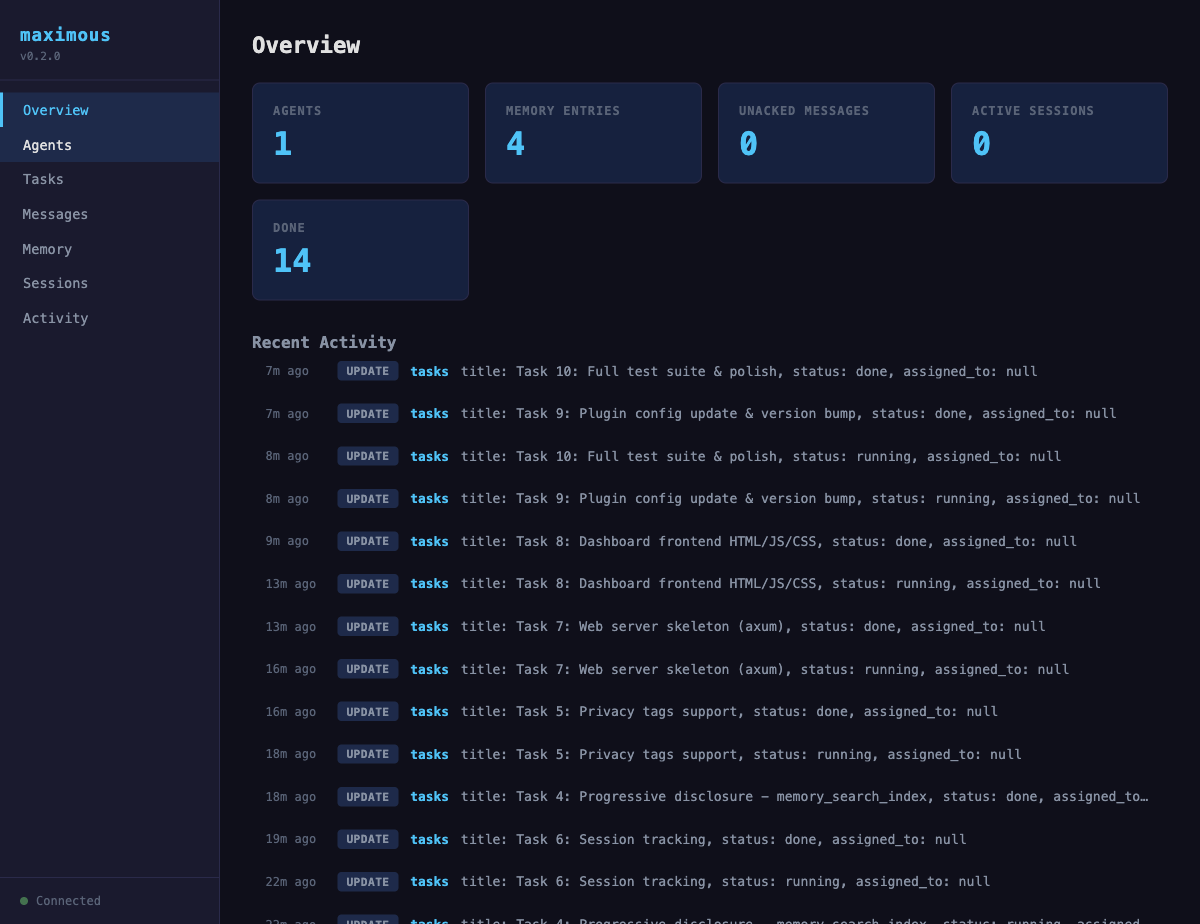
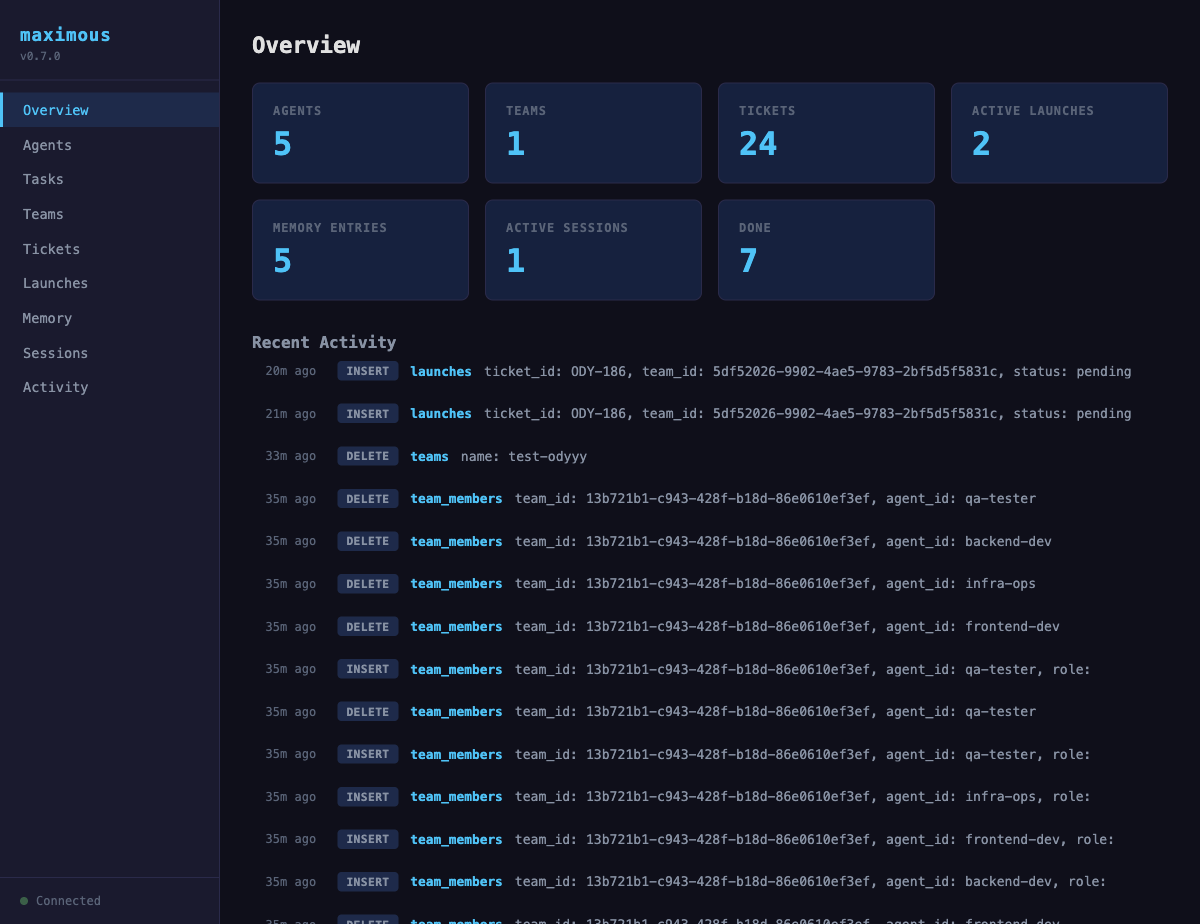
docs: update README for v0.7.0 with new dashboard screenshots
- Add screenshots for Teams, Tickets, and Launches pages
- Update tool count from 18 to 30 (8 domains)
- Update table count from 7 to 11
- Update test count from 61 to 155
- Add Teams, Tickets, Launches, and Definitions to architecture docs
- Update skills table and version references

diff --git a/README.md b/README.md
@@ -5,9 +5,9 @@ A SQLite brain for Claude Code — session continuity, subagent knowledge persis
 Maximous enhances Claude Code with persistent context that survives across sessions, preserves subagent findings before they're compressed, and coordinates parallel agents through a shared SQLite database via MCP.
 
 <p align="center">
-  <img src="assets/dashboard-overview.png" alt="Maximous Web Dashboard" width="800">
+  <img src="assets/dashboard-overview.png" alt="Maximous Web Dashboard — Overview" width="800">
   <br>
-  <em>Real-time web dashboard showing agent activity, tasks, and memory</em>
+  <em>Real-time web dashboard with agent registry, team management, ticket tracking, and launch orchestration</em>
 </p>
 
 ## How It Works
@@ -28,13 +28,15 @@ Each agent spawns its own MCP server process. All processes share a single SQLit
 | Domain | Tools | Purpose |
 |---|---|---|
 | **Memory** | `memory_set`, `memory_get`, `memory_search`, `memory_search_index`, `memory_delete` | FTS5-powered shared knowledge store with typed observations, privacy tags, and progressive disclosure |
-| **Messages** | `message_send`, `message_read`, `message_ack` | Priority message queue with channels |
 | **Tasks** | `task_create`, `task_update`, `task_list` | Task board with dependencies and pagination |
-| **Agents** | `agent_register`, `agent_heartbeat`, `agent_list` | Agent registry with heartbeat |
+| **Agents** | `agent_register`, `agent_heartbeat`, `agent_list`, `agent_define`, `agent_remove`, `agent_catalog` | Agent registry with heartbeat and reusable definitions |
+| **Teams** | `team_create`, `team_list`, `team_delete`, `team_add_member`, `team_remove_member` | Compose agents into named teams for coordinated work |
+| **Tickets** | `ticket_cache`, `ticket_list`, `ticket_get`, `ticket_clear` | Cache and track external tickets (Linear, Jira) |
+| **Launches** | `launch_create`, `launch_update`, `launch_list`, `launch_delete` | Assign tickets to teams, track execution status and PRs |
 | **Sessions** | `session_start`, `session_end`, `session_list` | Track agent work sessions with summaries |
 | **Observe** | `poll_changes` | Watch for state changes across all tables |
 
-**18 tools** across 6 domains.
+**30 tools** across 8 domains.
 
 ## Key Features
 
@@ -61,14 +63,34 @@ Automatic hooks preserve context across Claude Code sessions:
 Reserved namespaces: `sessions`, `agent-findings`, `context-preservation`.
 
 ### Web Dashboard
-Built-in web dashboard at `http://127.0.0.1:8375` with 7 views:
+Built-in web dashboard at `http://127.0.0.1:8375` with 9 views:
 - **Overview** — stat cards + activity feed
 - **Agents** — registry with heartbeat status
 - **Tasks** — table with status/priority badges and dependencies
-- **Messages** — channel-based message browser
+- **Teams** — agent definitions, team composition with add/remove members
+- **Tickets** — cached Linear/Jira tickets with status, priority, labels, and launch buttons
+- **Launches** — ticket-to-team assignments with status tracking, branch names, and PR links
 - **Memory** — 3-pane namespace/key/value explorer
 - **Sessions** — session history with summaries
 - **Activity** — real-time change feed via SSE
+
+<p align="center">
+  <img src="assets/dashboard-teams.png" alt="Teams — agent definitions and team composition" width="800">
+  <br>
+  <em>Teams view: define agents, compose teams, add/remove members</em>
+</p>
+
+<p align="center">
+  <img src="assets/dashboard-tickets.png" alt="Tickets — Linear integration with launch controls" width="800">
+  <br>
+  <em>Tickets view: cached Linear tickets with priority badges, status, and one-click launch</em>
+</p>
+
+<p align="center">
+  <img src="assets/dashboard-launches.png" alt="Launches — ticket execution tracking" width="800">
+  <br>
+  <em>Launches view: track ticket execution across teams with status, branches, and PR links</em>
+</p>
 
 Start the dashboard:
 ```bash
@@ -150,22 +172,23 @@ If you just want the MCP server without the full plugin, add to your project's `
 
 ## Usage
 
-Claude Code auto-spawns the MCP server and makes all 18 tools available to agents. The SessionStart hook runs automatically every session to ensure the binary and `.maximous/` directory exist.
+Claude Code auto-spawns the MCP server and makes all 30 tools available to agents. The SessionStart hook runs automatically every session to ensure the binary and `.maximous/` directory exist.
 
 ### Skills
 
-The plugin includes 8 skills that teach agents how to use maximous. Skills trigger automatically based on what you say:
+The plugin includes skills that teach agents how to use maximous. Skills trigger automatically based on what you say:
 
 | Skill | Trigger examples | Purpose |
 |---|---|---|
 | **session-continuity** | "resume previous work", "pick up where I left off" | Cross-session context persistence |
 | **orchestrate** | "orchestrate agents", "set up multi-agent workflow" | Set up full multi-agent workflows |
 | **coordinate** | "manage tasks", "create task graph" | Task lifecycle and dependency management |
-| **communicate** | "send a message to agents", "use message channels" | Message channels and priority queues |
+| **teams** | "define agents", "create teams", "manage team members" | Agent definitions and team composition |
 | **memory** | "store this in memory", "share data between agents" | Shared key-value storage with TTL |
 | **observe** | "watch for changes", "poll for updates" | Watch for state changes via polling |
 | **status** | "maximous status", "show agent status" | Quick overview of current state |
 | **cleanup** | "clean up maximous", "expire old data" | Expire stale data and maintain the database |
+| **dashboard** | "open dashboard", "show dashboard" | Open the web dashboard in your browser |
 
 ### When Does Maximous Activate?
 
@@ -203,7 +226,7 @@ echo '{"jsonrpc":"2.0","id":1,"method":"initialize","params":{"protocolVersion":
 
 Should return:
 ```json
-{"jsonrpc":"2.0","id":1,"result":{"capabilities":{"tools":{}},"protocolVersion":"2024-11-05","serverInfo":{"name":"maximous","version":"0.5.0"}}}
+{"jsonrpc":"2.0","id":1,"result":{"capabilities":{"tools":{}},"protocolVersion":"2024-11-05","serverInfo":{"name":"maximous","version":"0.7.0"}}}
 ```
 
 ## Multi-Agent Example
@@ -255,33 +278,40 @@ maximous/
 │   ├── main.rs          # CLI entry: subcommands (default=MCP, dashboard=web)
 │   ├── lib.rs           # Library root
 │   ├── db.rs            # SQLite init, WAL mode, migrations
-│   ├── schema.sql       # 7 tables, 9 indexes, 19 triggers, FTS5
-│   ├── mcp.rs           # JSON-RPC types, stdio loop, 18 tool defs
+│   ├── schema.sql       # 11 tables, indexes, triggers, FTS5
+│   ├── mcp.rs           # JSON-RPC types, stdio loop, 30 tool defs
 │   ├── tools/
 │   │   ├── mod.rs       # ToolResult type, dispatch router
 │   │   ├── memory.rs    # FTS5 search, observations, privacy, progressive disclosure
-│   │   ├── messages.rs  # Priority queue with channels
 │   │   ├── tasks.rs     # Dependency graph, status lifecycle
 │   │   ├── agents.rs    # Registry with heartbeat
+│   │   ├── definitions.rs # Reusable agent definitions (define, catalog, remove)
+│   │   ├── teams.rs     # Team composition and member management
+│   │   ├── tickets.rs   # External ticket caching (Linear, Jira)
+│   │   ├── launches.rs  # Ticket-to-team launch tracking
 │   │   ├── sessions.rs  # Session tracking
 │   │   └── changes.rs   # Observation/change log polling
 │   └── web/
 │       ├── mod.rs       # Axum router, static assets via rust-embed
 │       └── api.rs       # REST endpoints + SSE stream
-├── tests/               # 61 tests
+├── tests/               # 155 tests
 ├── benches/             # Criterion benchmarks
 └── .github/workflows/   # CI + release builds
 ```
 
 ### Database Schema
 
-7 tables + FTS5 + change log, connected by SQLite triggers:
+11 tables + FTS5 + change log, connected by SQLite triggers:
 
 - **memory** — `(namespace, key)` primary key, JSON values, optional TTL, observation_type, category
 - **memory_fts** — FTS5 virtual table for ranked full-text search
-- **messages** — auto-increment ID, channels, priority (0-3), acknowledgment
 - **tasks** — UUID ID, status lifecycle (pending/ready/running/done/failed), JSON dependencies
 - **agents** — heartbeat-based liveness, JSON capabilities
+- **agent_definitions** — reusable agent templates with capabilities, model, and prompt hints
+- **teams** — named groups with description
+- **team_members** — agent-to-team assignments with roles
+- **tickets** — cached external tickets (Linear, Jira) with status, priority, labels, assignee
+- **launches** — ticket-to-team execution records with branch, status, PR URL, error tracking
 - **sessions** — agent work sessions with start/end times and summaries
 - **changes** — auto-populated by triggers on INSERT/UPDATE/DELETE across all tables
 - **config** — simple key-value settings
@@ -312,14 +342,17 @@ cargo build
 ### Running tests
 
 ```bash
-# All tests (61 total)
+# All tests (155 total)
 cargo test
 
 # Specific test suite
 cargo test --test memory_test
-cargo test --test messages_test
 cargo test --test tasks_test
 cargo test --test agents_test
+cargo test --test definitions_test
+cargo test --test team_tools_test
+cargo test --test tickets_test
+cargo test --test launches_test
 cargo test --test changes_test
 cargo test --test sessions_test
 cargo test --test pagination_test
@@ -327,6 +360,7 @@ cargo test --test observation_test
 cargo test --test progressive_test
 cargo test --test privacy_test
 cargo test --test integration_test
+cargo test --test teams_integration_test
 cargo test --test concurrent_test
 cargo test --test mcp_test
 cargo test --test db_test
@@ -380,8 +414,8 @@ Benchmarks cover:
 Tag a version to trigger cross-platform builds and a GitHub Release:
 
 ```bash
-git tag v0.5.0
-git push origin v0.5.0
+git tag v0.7.0
+git push origin v0.7.0
 ```
 
 GitHub Actions builds binaries for macOS (arm64, x86_64) and Linux (arm64, x86_64), then creates a release with the tarballs attached.
